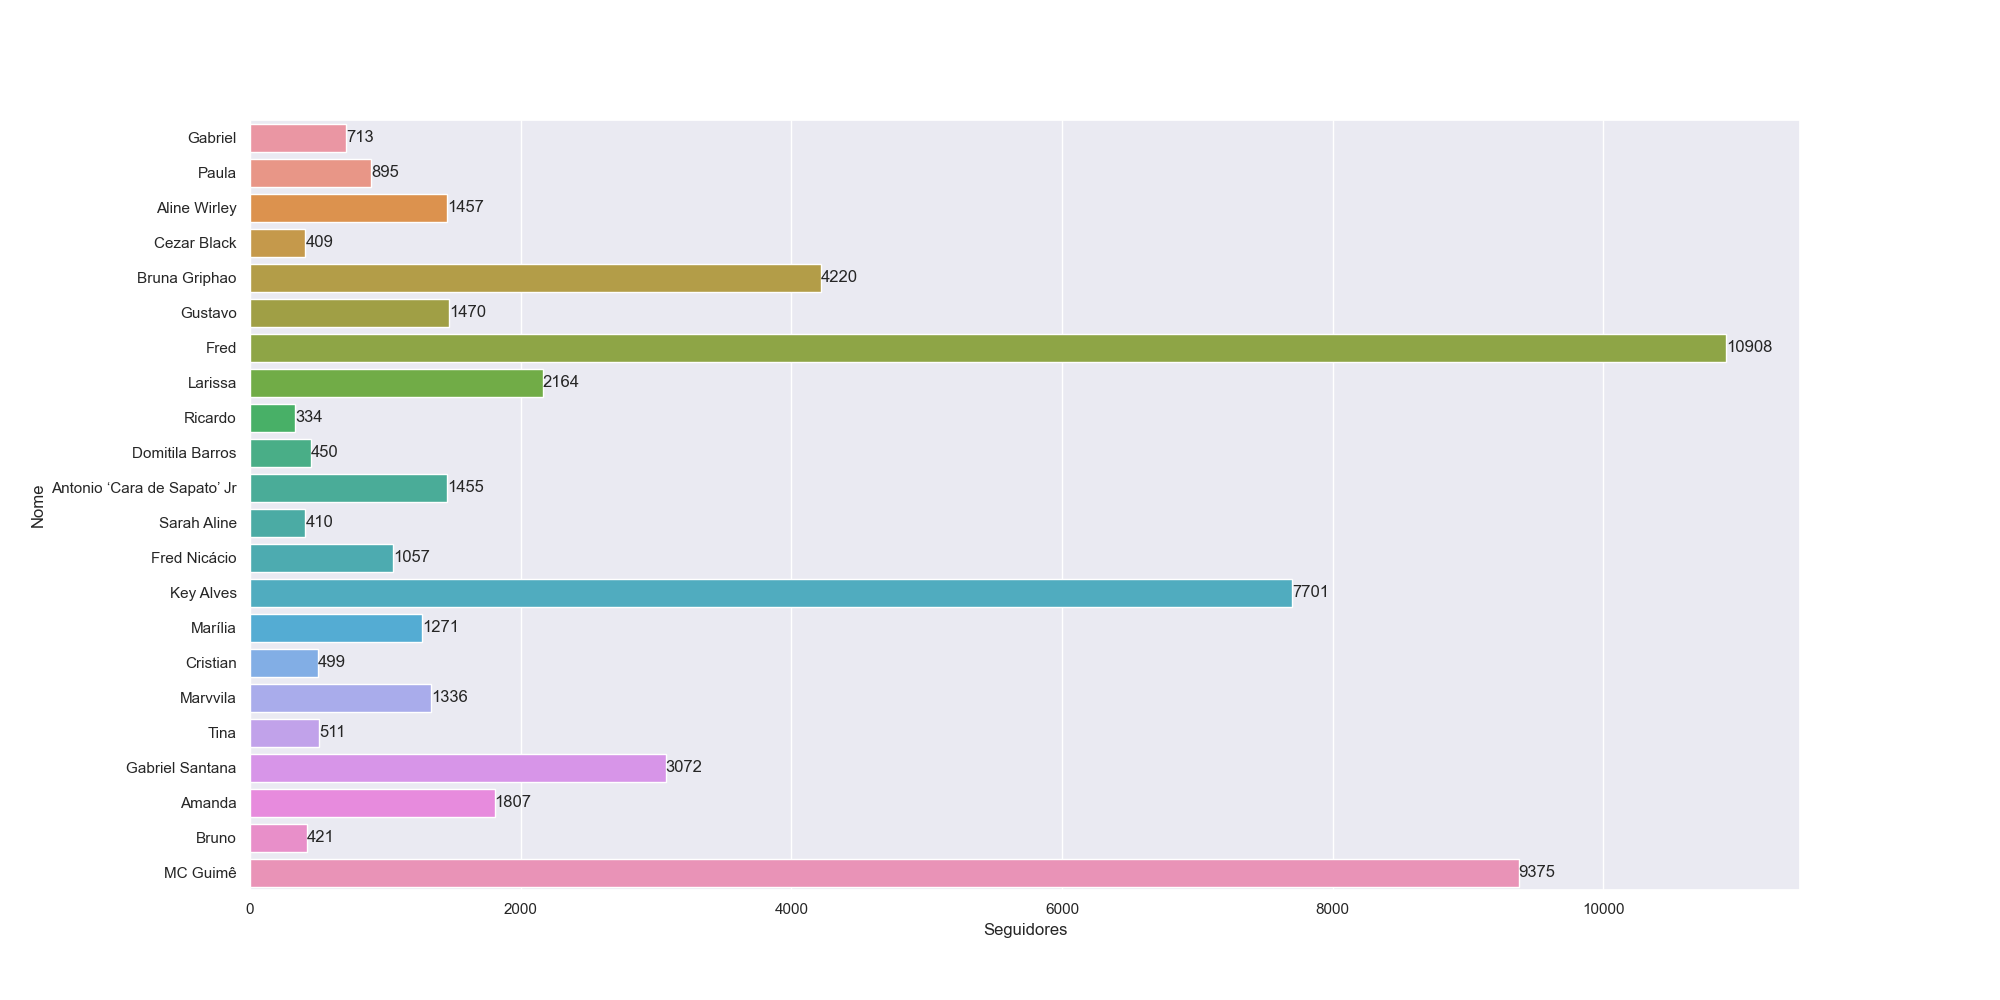
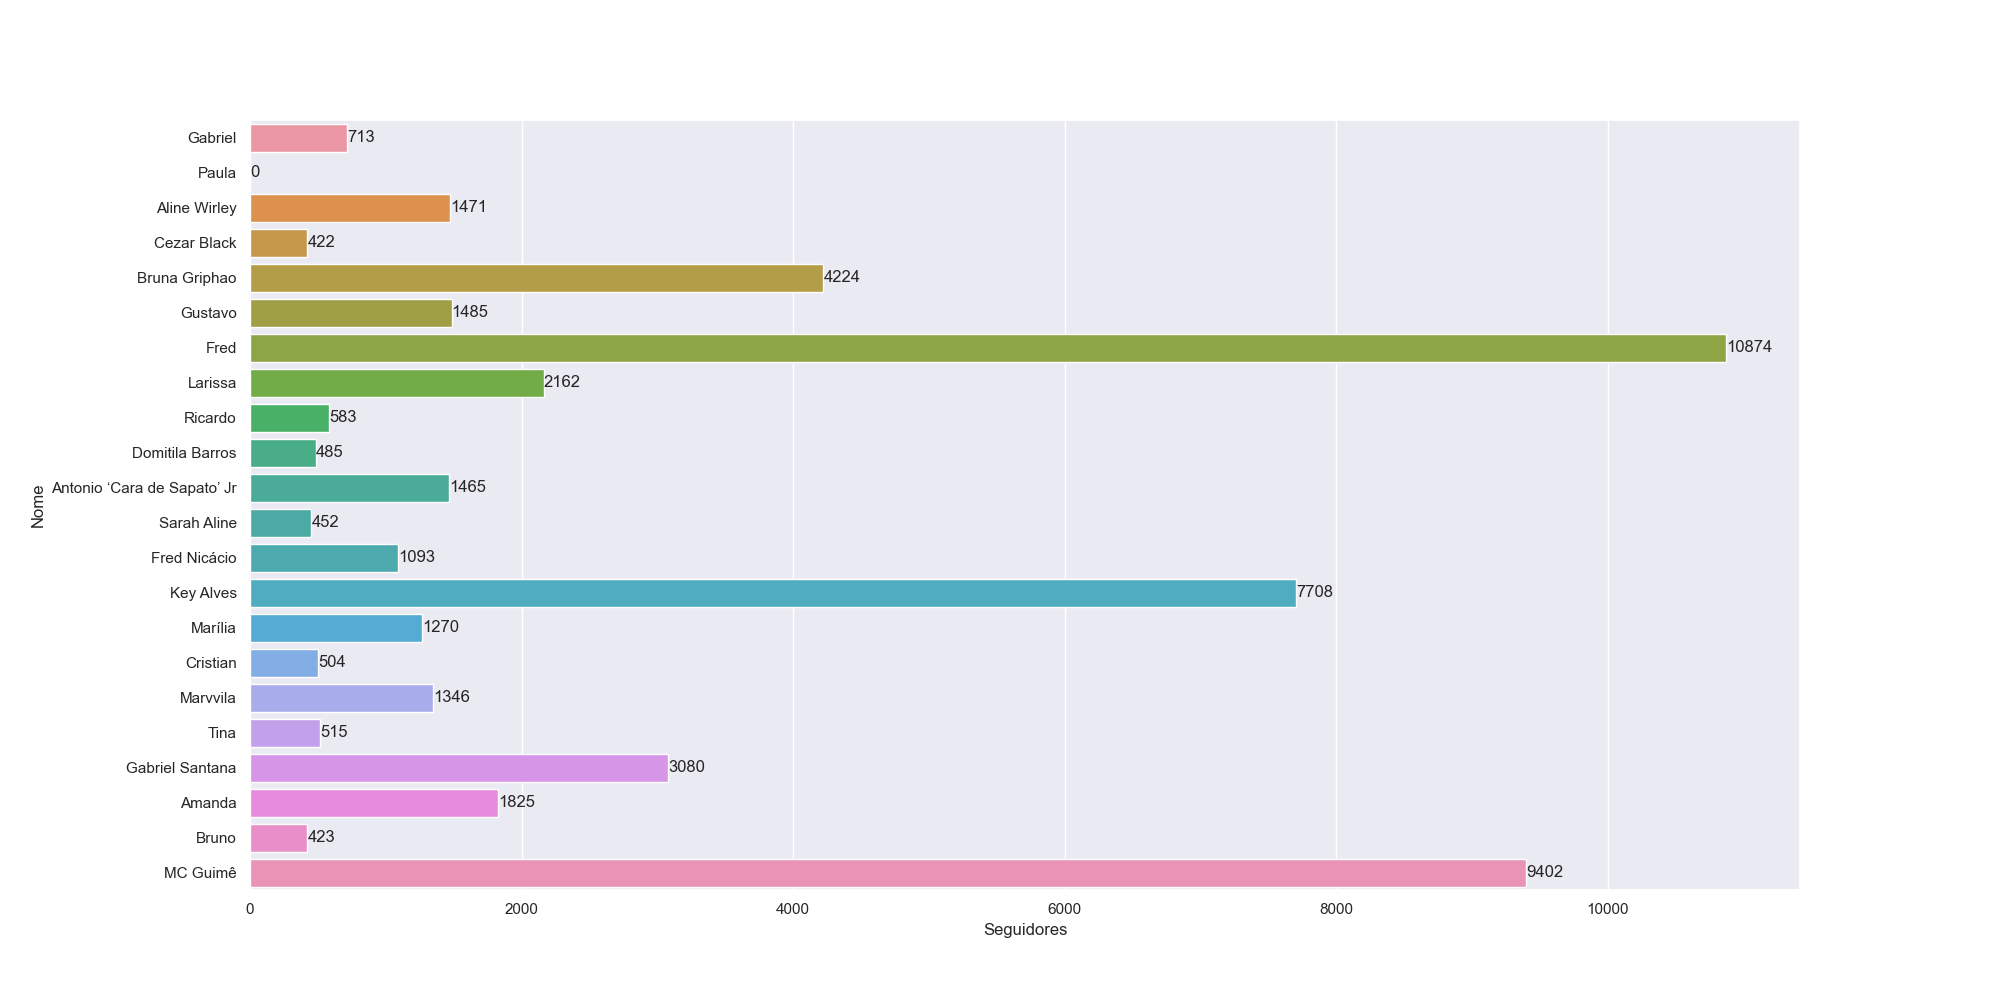
Update datebase

diff --git a/config/ConfigIntagram.py b/config/ConfigIntagram.py
@@ -24,8 +24,8 @@ class ConfigInstagram:
             User(
                 id=2,
                 name='Paula',
-                instagram_username='paulafreitasr_',
-                followers=profile.from_username(bot.context, 'paulafreitasr_').followers,
+                instagram_username='_paulafreitasr_',
+                followers=profile.from_username(bot.context, '_paulafreitasr_').followers,
                 url_image='https://s2.glbimg.com/nVOp1nrNMAlzW57bfHFdon5L1qg=/i.s3.glbimg.com/v1'
                           '/AUTH_e84042ef78cb4708aeebdf1c68c6cbd6/internal_photos/bs/2023/s/r/AstvO8T0OvZCRN7XE7cA'
                           '/paula-foto-330-270-bbb23.png'

diff --git a/model/StatusBrothers.py b/model/StatusBrothers.py
@@ -4,8 +4,8 @@ class StatusBrothers:
         self.__leader = 7
         self.__angel = 0
         self.__monster = []
-        self.__wall = [12, 14, 15]
-        self.__in_game = [3, 4, 5, 7, 8, 9, 10, 11, 12, 14, 17, 19, 20, 22]
+        self.__wall = []
+        self.__in_game = [3, 4, 5, 7, 8, 9, 10, 11, 12, 17, 19, 20, 22]
 
     @property
     def Leader(self):
